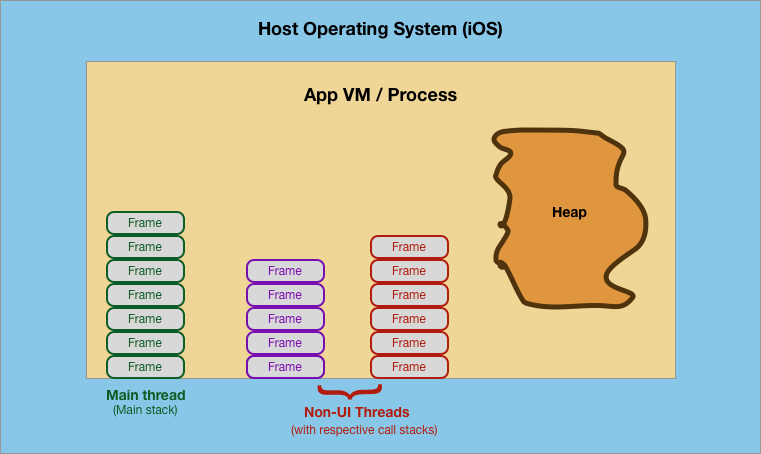
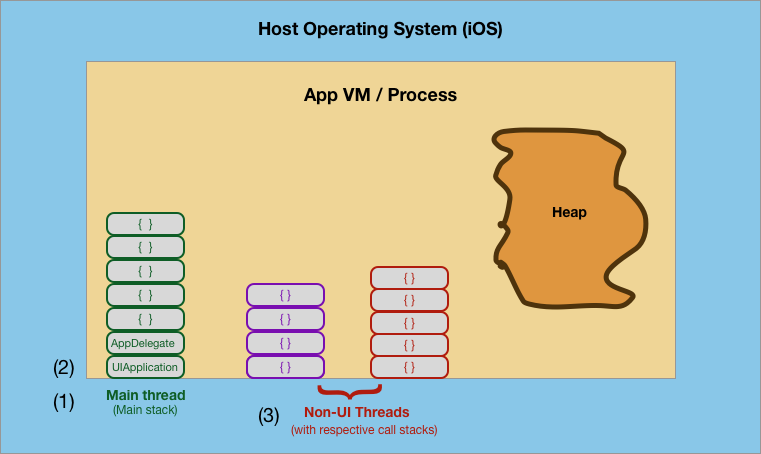
L01: started TT2

diff --git a/Lessons/01-Intro-Concurrency-&-Parallelism/Readme.md b/Lessons/01-Intro-Concurrency-&-Parallelism/Readme.md
@@ -43,7 +43,7 @@ As you add code on your `main` thread to perform large items of non-UI work &mda
 Your user interface will slow down, or maybe even stop altogether.
 
 A common example:
-- A table view that will not scroll properly while the app is downloading and transforming images; multiple "busy" indicators are displayed instead of expected images.
+- A table view that will not scroll properly while the app is downloading and transforming images; scrolling stutters and you might need to display multiple "busy" indicators of the expected images.
 
 The concept of __*Concurrency*__ in iOS is about how to structure your app to avoid such UI performance issues by directing  slow, non-UI tasks to run somewhere other than on the UI thread (aka, the `main` thread).
 
@@ -209,11 +209,18 @@ https://www.cs.uic.edu/~jbell/CourseNotes/OperatingSystems/4_Threads.html
 
 In general, look for opportunities to structure your apps so that some tasks can run at the same time.
 
+<!-- looking at the logic of your app to determine which pieces can run at the same time, and possibly in a random order, yet still result in a correct implementation of your data flow.
+
+Tasks which access different resources, or read-only shared resources, can all be accessed via different threads to allow for much faster processing.
+
+-->
+
+
 Tasks which are good candidates to run simultaneously typically fall into these categories:
 
 - tasks that access different resources
 
-- tasks that only read values
+- tasks that only read values from shared resources
 
 > Note: Tasks that modify the *same* resource __*must not*__ run at the same time, unless the resource is `threadsafe` (we'll cover thread safety later in the course)
 
@@ -234,22 +241,31 @@ https://drive.google.com/drive/u/0/folders/1NoSPe3pQJFEXBZmsHKLquYh1uzoWVWYK?ths
 
 ### Concurrency on iOS
 
-#### ipHone hardware
+#### How many cores on an iOS device?
 
-iPhones and iPads have been dual-core since 2011...
-
-- How many cores on an iPhone?
+iPhones and iPads have been dual-core since 2011, with more recent models boasting as much as 8 cores (octa-core) per chip.<sup>1</sup>
 
 
+<!-- Having more than one core means they are capable of running more than a single task at the same time. By splitting your app into logical "chunks" of code you enable the iOS device to run multiple parts of your program at the same time, thus improving overall performance. -->
+
+### Anatomy of a running iOS app
 
 
-### Anatomy of an iOS app
 
-![iOS_runtime_process](assets/iOS_runtime_process.png) </br>
+1. When an iOS app starts, the system automatically creates the app's `main thread` and the corresponding `call stack` which the `main thread` manages.
 
-iOS_runtime_process
+2. The `main thread` eventually (after executing required Cocoa Touch functions) allocates your app's `Application` object in its `stack frame`, which in turn executes its delegate methods on its `AppDelegate` object in their respective `stack frame`s, which begins creating all of the components of your app's user interface and behavior.
 
-#### VMs, Processes, & threads
+From that point on &mdash; and until the `Application` object's *run loop* (lifecycle) ends &mdash; all UI-related code in your app will execute on the `main thread`.
+
+This behavior ensures that user-related events are processed serially in the order in which they were received.
+
+But, unless specified otherwise, all non-UI code will also execute on the `main thread` (exceptions to this include frameworks such as `URLSession` in which some tasks run on non-UI threads by default).
+
+3. Meanwhile the system also creates additional threads (nonUI threads), along with their corresponding `call stack`s, making them available for use by your app.
+
+
+&nbsp;&nbsp;&nbsp;&nbsp;&nbsp; ![iOS_runtime_process](assets/iOS_runtime_process.png) </br>
 
 
 
@@ -281,8 +297,18 @@ an eternity. "It's too slow" is one of the main contributors to your app being u
 ### Intro to GCD
 
 
+<!-- Most modern programming languages provide for some form of concurrency and Swift is of course no exception. Different languages use widely different mechanisms for handling concurrency. C# and Typescript, for example use an async/await pattern, whereas Swift uses closures to handle what runs on another thread. Swift 5 originally had plans to implement the more common async/await pattern but it was removed from the specification until the next release. -->
 
-### Challenges
+
+<!--
+There are two APIs that you'll use when making your app concurrent: Grand Central Dispatch, commonly referred to as GCD, and Operations. These are neither competing technologies nor something that you have to exclusively pick between. In fact, Operations are built on top of GCD!
+
+
+GCD is Apple's implementation of C's libdispatch library. Its purpose is to queue up tasks — either a method or a closure — that can be run in parallel, depending on availability of resources; it then executes the tasks on an available processor core.
+While GCD uses threads in its implementation, you, as the developer, do not need to worry about managing them yourself. GCD's tasks are so lightweight to enqueue that Apple, in its 2009 technical brief on GCD, stated that only 15 instructions are required for implementation, whereas creating traditional threads could require several hundred instructions. -->
+
+
+### Challenges of Currency/Parallelism
 
 Concurrency presents specific development challenges. The course will introduce the following challenges, along with standard approaches to avoid or resolve them:
 
@@ -339,7 +365,7 @@ https://en.wikipedia.org/wiki/Concurrency_(computer_science)
 
 https://en.wikipedia.org/wiki/Amdahl%27s_law
 
-https://en.wikipedia.org/wiki/Apple-designed_processors
+https://en.wikipedia.org/wiki/Apple-designed_processors <sup>1</sup>
 
 https://www.cs.uic.edu/~jbell/CourseNotes/OperatingSystems/4_Threads.html
 
